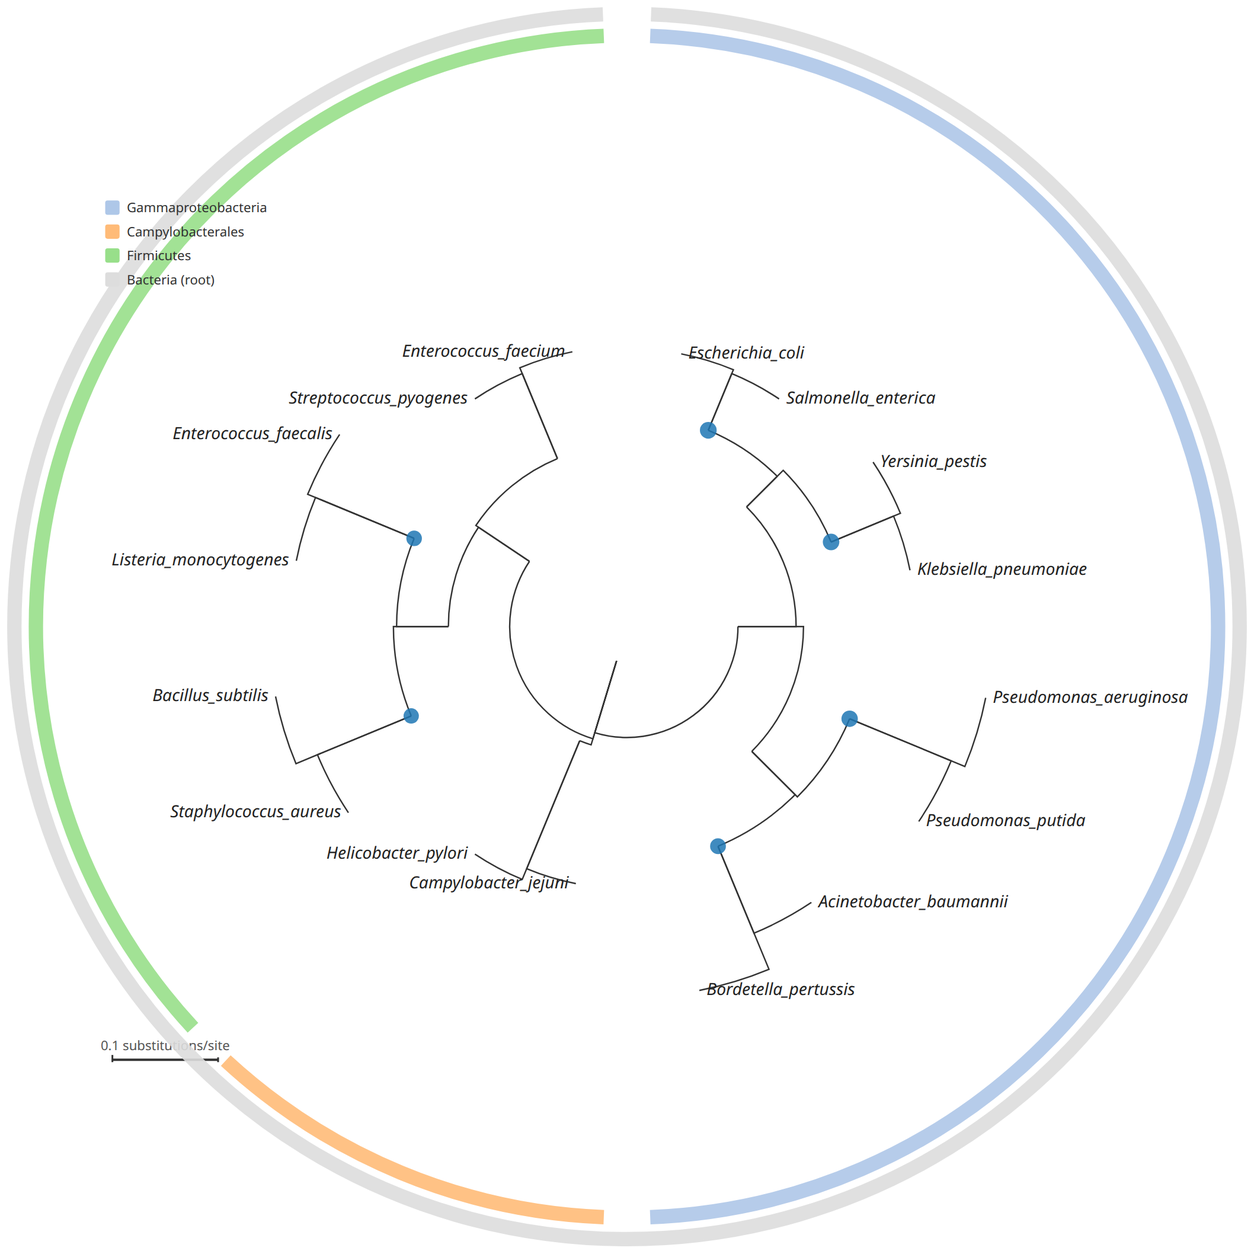
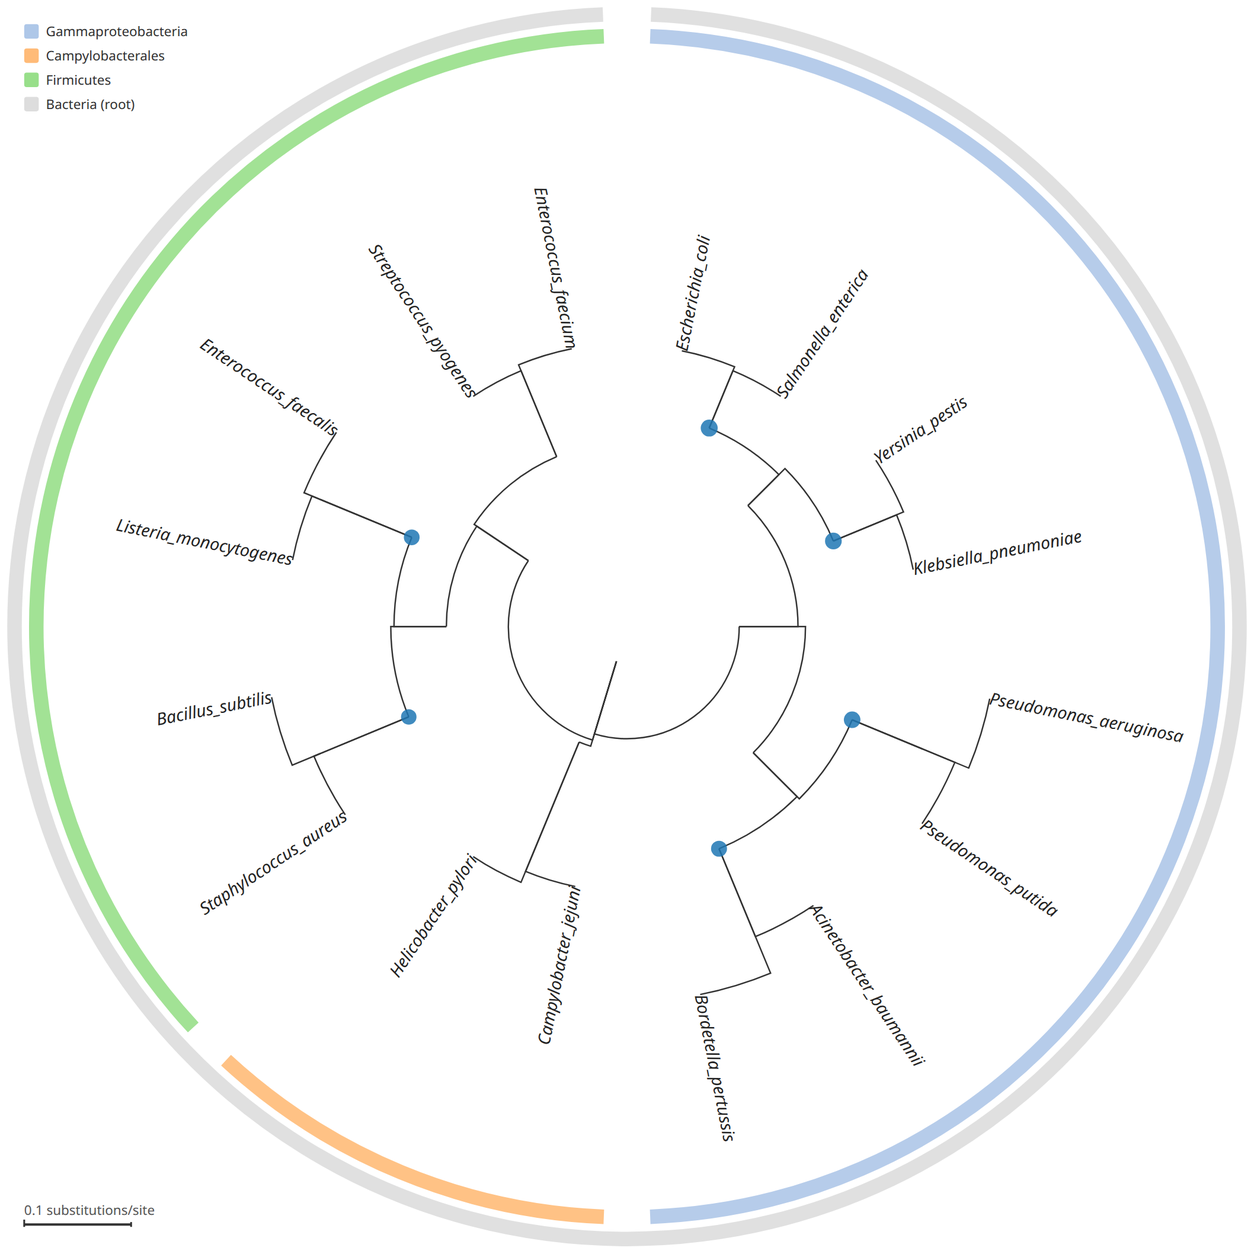
fix: PhyloTree circular/rect refinements per user review (v0.11.1)
- circular: tip labels rotated to the tip direction (left-half flipped 180 deg
  to stay readable)
- circular: legend + scale bar repositioned into the content-bbox corners
  (top-left legend, bottom-left scale bar) drawn AFTER the strips — no overlap
  with the colour-strip rings or the tree
- rect: clade strips unlabeled (the figure legend already identifies colours)
- engines/phylotree.md updated; screenshots refreshed; v0.11.0 -> v0.11.1

diff --git a/examples/phylotree-rect.html b/examples/phylotree-rect.html
@@ -320,25 +320,19 @@ document.getElementById('chart-title').textContent = SPEC.title || 'Phylogenetic
       leaves.forEach(function (n) {
         var p = pt(n);
         var right = Math.cos(p.th * Math.PI / 180) >= 0;
-        var t = el('text', { x: p.x + (right ? 6 : -6), y: p.y + 4,
-          'text-anchor': right ? 'start' : 'end', 'font-size': tl.font_size, fill: '#222' });
+        // label rotated to the tip direction; left-half labels flipped 180 deg to stay readable
+        var rot = right ? p.th : p.th - 180;
+        var t = el('text', { x: p.x, y: p.y,
+          'text-anchor': right ? 'start' : 'end', 'font-size': tl.font_size, fill: '#222',
+          transform: 'rotate(' + rot + ' ' + p.x + ' ' + p.y + ')',
+          dy: tl.font_size * 0.33 });
         t.textContent = n.name;
         if (tl.italic) t.setAttribute('font-style', 'italic');
         leafLabelEls.push({ name: n.name, el: t });
       });
     }
-    if (sb) {
-      // horizontal scale bar, bottom-left corner (same convention as rect layout)
-      var nice = Math.pow(10, Math.floor(Math.log10(totalLen / 2)));
-      var cands2 = [1, 2, 5, 10].map(function (m) { return m * nice; });
-      var barLen2 = cands2.filter(function (v) { return v <= totalLen / 2; }).pop() || cands2[0];
-      var bx2 = 30, by2 = H - 18;
-      el('line', { x1: bx2, y1: by2, x2: bx2 + barLen2 * rScale, y2: by2, stroke: '#333', 'stroke-width': 2 });
-      el('line', { x1: bx2, y1: by2 - 4, x2: bx2, y2: by2 + 2, stroke: '#333', 'stroke-width': 1.5 });
-      el('line', { x1: bx2 + barLen2 * rScale, y1: by2 - 2, x2: bx2 + barLen2 * rScale, y2: by2 + 2, stroke: '#333', 'stroke-width': 1.5 });
-      var lt = el('text', { x: bx2 + barLen2 * rScale / 2, y: by2 - 8, 'text-anchor': 'middle', 'font-size': 11, fill: '#555' });
-      lt.textContent = fmt(barLen2) + ' ' + (sb.label || 'substitutions/site');
-    }
+    // scale bar for circular layout is drawn in the tail (content-bbox bottom-left corner,
+    // outside the ring — see overlay section)
   } else {
     throw new Error('phylotree: layout.mode must be "rect" or "circular"');
   }
@@ -369,8 +363,7 @@ document.getElementById('chart-title').textContent = SPEC.title || 'Phylogenetic
         var x = maxRight + 12 + k * (stripW + stripGap);
         el('rect', { x: x, y: y0, width: stripW, height: y1 - y0,
                      fill: r.color, rx: 3, 'fill-opacity': 0.9 });
-        var lt = el('text', { x: x, y: y0 - 5 - k * 14, 'font-size': 10, fill: '#555' });
-        lt.textContent = r.label || '';
+        // no per-band label: the figure legend (top-left) identifies the colours
       });
     } else {
       // circular: concentric arcs beyond the outermost tip label
@@ -387,15 +380,34 @@ document.getElementById('chart-title').textContent = SPEC.title || 'Phylogenetic
         });
         var a0 = Math.min.apply(null, angs) - unit * 0.4, a1 = Math.max.apply(null, angs) + unit * 0.4;
         var rr = outerR + 20 + k * 18;
+        var largeArc = (a1 - a0) > 180 ? 1 : 0;   // spans > 180 deg need large-arc-flag (e.g. root-level ranges)
         var x0 = CX + rr * Math.cos(a0 * Math.PI / 180), y0 = CY + rr * Math.sin(a0 * Math.PI / 180);
         var x1 = CX + rr * Math.cos(a1 * Math.PI / 180), y1 = CY + rr * Math.sin(a1 * Math.PI / 180);
-        el('path', { d: 'M ' + x0 + ' ' + y0 + ' A ' + rr + ' ' + rr + ' 0 0 1 ' + x1 + ' ' + y1,
+        el('path', { d: 'M ' + x0 + ' ' + y0 + ' A ' + rr + ' ' + rr + ' 0 ' + largeArc + ' 1 ' + x1 + ' ' + y1,
           fill: 'none', stroke: r.color, 'stroke-width': 12, 'stroke-opacity': 0.9, 'stroke-linecap': 'butt' });
       });
     }
-    // range legend (top-left, both layouts)
+    // circular scale bar: content-bbox bottom-left corner, OUTSIDE the ring (no overlap with strips)
+    if (mode === 'circular' && sb && typeof rScale === 'number') {
+      var nice = Math.pow(10, Math.floor(Math.log10(totalLen / 2)));
+      var cands2 = [1, 2, 5, 10].map(function (m) { return m * nice; });
+      var barLen2 = cands2.filter(function (v) { return v <= totalLen / 2; }).pop() || cands2[0];
+      var cb = svg.getBBox();
+      var bx2 = cb.x + 8, by2 = cb.y + cb.height - 12;
+      el('line', { x1: bx2, y1: by2, x2: bx2 + barLen2 * rScale, y2: by2, stroke: '#333', 'stroke-width': 2 });
+      el('line', { x1: bx2, y1: by2 - 4, x2: bx2, y2: by2 + 2, stroke: '#333', 'stroke-width': 1.5 });
+      el('line', { x1: bx2 + barLen2 * rScale, y1: by2 - 2, x2: bx2 + barLen2 * rScale, y2: by2 + 2, stroke: '#333', 'stroke-width': 1.5 });
+      var lt = el('text', { x: bx2, y: by2 - 8, 'text-anchor': 'start', 'font-size': 11, fill: '#555' });
+      lt.textContent = fmt(barLen2) + ' ' + (sb.label || 'substitutions/site');
+    }
+    // range legend: circular places it in the content-bbox top-left corner (outside the ring);
+    // rect keeps the fixed top-left position
     if (SPEC.legend === undefined || SPEC.legend) {
-      var lx = 24, ly = 24;
+      var lx, ly;
+      if (mode === 'circular') {
+        var cb = svg.getBBox();
+        lx = cb.x + 8; ly = cb.y + 8;
+      } else { lx = 24; ly = 24; }
       ranges.forEach(function (r, k) {
         el('rect', { x: lx, y: ly + k * 20, width: 12, height: 12, fill: r.color, rx: 2 });
         var t = el('text', { x: lx + 18, y: ly + k * 20 + 10, 'font-size': 11, fill: '#333' });

diff --git a/examples/phylotree-circular.html b/examples/phylotree-circular.html
@@ -319,25 +319,19 @@ document.getElementById('chart-title').textContent = SPEC.title || 'Phylogenetic
       leaves.forEach(function (n) {
         var p = pt(n);
         var right = Math.cos(p.th * Math.PI / 180) >= 0;
-        var t = el('text', { x: p.x + (right ? 6 : -6), y: p.y + 4,
-          'text-anchor': right ? 'start' : 'end', 'font-size': tl.font_size, fill: '#222' });
+        // label rotated to the tip direction; left-half labels flipped 180 deg to stay readable
+        var rot = right ? p.th : p.th - 180;
+        var t = el('text', { x: p.x, y: p.y,
+          'text-anchor': right ? 'start' : 'end', 'font-size': tl.font_size, fill: '#222',
+          transform: 'rotate(' + rot + ' ' + p.x + ' ' + p.y + ')',
+          dy: tl.font_size * 0.33 });
         t.textContent = n.name;
         if (tl.italic) t.setAttribute('font-style', 'italic');
         leafLabelEls.push({ name: n.name, el: t });
       });
     }
-    if (sb) {
-      // horizontal scale bar, bottom-left corner (same convention as rect layout)
-      var nice = Math.pow(10, Math.floor(Math.log10(totalLen / 2)));
-      var cands2 = [1, 2, 5, 10].map(function (m) { return m * nice; });
-      var barLen2 = cands2.filter(function (v) { return v <= totalLen / 2; }).pop() || cands2[0];
-      var bx2 = 30, by2 = H - 18;
-      el('line', { x1: bx2, y1: by2, x2: bx2 + barLen2 * rScale, y2: by2, stroke: '#333', 'stroke-width': 2 });
-      el('line', { x1: bx2, y1: by2 - 4, x2: bx2, y2: by2 + 2, stroke: '#333', 'stroke-width': 1.5 });
-      el('line', { x1: bx2 + barLen2 * rScale, y1: by2 - 2, x2: bx2 + barLen2 * rScale, y2: by2 + 2, stroke: '#333', 'stroke-width': 1.5 });
-      var lt = el('text', { x: bx2 + barLen2 * rScale / 2, y: by2 - 8, 'text-anchor': 'middle', 'font-size': 11, fill: '#555' });
-      lt.textContent = fmt(barLen2) + ' ' + (sb.label || 'substitutions/site');
-    }
+    // scale bar for circular layout is drawn in the tail (content-bbox bottom-left corner,
+    // outside the ring — see overlay section)
   } else {
     throw new Error('phylotree: layout.mode must be "rect" or "circular"');
   }
@@ -368,8 +362,7 @@ document.getElementById('chart-title').textContent = SPEC.title || 'Phylogenetic
         var x = maxRight + 12 + k * (stripW + stripGap);
         el('rect', { x: x, y: y0, width: stripW, height: y1 - y0,
                      fill: r.color, rx: 3, 'fill-opacity': 0.9 });
-        var lt = el('text', { x: x, y: y0 - 5 - k * 14, 'font-size': 10, fill: '#555' });
-        lt.textContent = r.label || '';
+        // no per-band label: the figure legend (top-left) identifies the colours
       });
     } else {
       // circular: concentric arcs beyond the outermost tip label
@@ -393,9 +386,27 @@ document.getElementById('chart-title').textContent = SPEC.title || 'Phylogenetic
           fill: 'none', stroke: r.color, 'stroke-width': 12, 'stroke-opacity': 0.9, 'stroke-linecap': 'butt' });
       });
     }
-    // range legend (top-left, both layouts)
+    // circular scale bar: content-bbox bottom-left corner, OUTSIDE the ring (no overlap with strips)
+    if (mode === 'circular' && sb && typeof rScale === 'number') {
+      var nice = Math.pow(10, Math.floor(Math.log10(totalLen / 2)));
+      var cands2 = [1, 2, 5, 10].map(function (m) { return m * nice; });
+      var barLen2 = cands2.filter(function (v) { return v <= totalLen / 2; }).pop() || cands2[0];
+      var cb = svg.getBBox();
+      var bx2 = cb.x + 8, by2 = cb.y + cb.height - 12;
+      el('line', { x1: bx2, y1: by2, x2: bx2 + barLen2 * rScale, y2: by2, stroke: '#333', 'stroke-width': 2 });
+      el('line', { x1: bx2, y1: by2 - 4, x2: bx2, y2: by2 + 2, stroke: '#333', 'stroke-width': 1.5 });
+      el('line', { x1: bx2 + barLen2 * rScale, y1: by2 - 2, x2: bx2 + barLen2 * rScale, y2: by2 + 2, stroke: '#333', 'stroke-width': 1.5 });
+      var lt = el('text', { x: bx2, y: by2 - 8, 'text-anchor': 'start', 'font-size': 11, fill: '#555' });
+      lt.textContent = fmt(barLen2) + ' ' + (sb.label || 'substitutions/site');
+    }
+    // range legend: circular places it in the content-bbox top-left corner (outside the ring);
+    // rect keeps the fixed top-left position
     if (SPEC.legend === undefined || SPEC.legend) {
-      var lx = 24, ly = 24;
+      var lx, ly;
+      if (mode === 'circular') {
+        var cb = svg.getBBox();
+        lx = cb.x + 8; ly = cb.y + 8;
+      } else { lx = 24; ly = 24; }
       ranges.forEach(function (r, k) {
         el('rect', { x: lx, y: ly + k * 20, width: 12, height: 12, fill: r.color, rx: 2 });
         var t = el('text', { x: lx + 18, y: ly + k * 20 + 10, 'font-size': 11, fill: '#333' });

diff --git a/templates/phylotree.html b/templates/phylotree.html
@@ -234,25 +234,19 @@ document.getElementById('chart-title').textContent = SPEC.title || 'Phylogenetic
       leaves.forEach(function (n) {
         var p = pt(n);
         var right = Math.cos(p.th * Math.PI / 180) >= 0;
-        var t = el('text', { x: p.x + (right ? 6 : -6), y: p.y + 4,
-          'text-anchor': right ? 'start' : 'end', 'font-size': tl.font_size, fill: '#222' });
+        // label rotated to the tip direction; left-half labels flipped 180 deg to stay readable
+        var rot = right ? p.th : p.th - 180;
+        var t = el('text', { x: p.x, y: p.y,
+          'text-anchor': right ? 'start' : 'end', 'font-size': tl.font_size, fill: '#222',
+          transform: 'rotate(' + rot + ' ' + p.x + ' ' + p.y + ')',
+          dy: tl.font_size * 0.33 });
         t.textContent = n.name;
         if (tl.italic) t.setAttribute('font-style', 'italic');
         leafLabelEls.push({ name: n.name, el: t });
       });
     }
-    if (sb) {
-      // horizontal scale bar, bottom-left corner (same convention as rect layout)
-      var nice = Math.pow(10, Math.floor(Math.log10(totalLen / 2)));
-      var cands2 = [1, 2, 5, 10].map(function (m) { return m * nice; });
-      var barLen2 = cands2.filter(function (v) { return v <= totalLen / 2; }).pop() || cands2[0];
-      var bx2 = 30, by2 = H - 18;
-      el('line', { x1: bx2, y1: by2, x2: bx2 + barLen2 * rScale, y2: by2, stroke: '#333', 'stroke-width': 2 });
-      el('line', { x1: bx2, y1: by2 - 4, x2: bx2, y2: by2 + 2, stroke: '#333', 'stroke-width': 1.5 });
-      el('line', { x1: bx2 + barLen2 * rScale, y1: by2 - 2, x2: bx2 + barLen2 * rScale, y2: by2 + 2, stroke: '#333', 'stroke-width': 1.5 });
-      var lt = el('text', { x: bx2 + barLen2 * rScale / 2, y: by2 - 8, 'text-anchor': 'middle', 'font-size': 11, fill: '#555' });
-      lt.textContent = fmt(barLen2) + ' ' + (sb.label || 'substitutions/site');
-    }
+    // scale bar for circular layout is drawn in the tail (content-bbox bottom-left corner,
+    // outside the ring — see overlay section)
   } else {
     throw new Error('phylotree: layout.mode must be "rect" or "circular"');
   }
@@ -283,8 +277,7 @@ document.getElementById('chart-title').textContent = SPEC.title || 'Phylogenetic
         var x = maxRight + 12 + k * (stripW + stripGap);
         el('rect', { x: x, y: y0, width: stripW, height: y1 - y0,
                      fill: r.color, rx: 3, 'fill-opacity': 0.9 });
-        var lt = el('text', { x: x, y: y0 - 5 - k * 14, 'font-size': 10, fill: '#555' });
-        lt.textContent = r.label || '';
+        // no per-band label: the figure legend (top-left) identifies the colours
       });
     } else {
       // circular: concentric arcs beyond the outermost tip label
@@ -308,9 +301,27 @@ document.getElementById('chart-title').textContent = SPEC.title || 'Phylogenetic
           fill: 'none', stroke: r.color, 'stroke-width': 12, 'stroke-opacity': 0.9, 'stroke-linecap': 'butt' });
       });
     }
-    // range legend (top-left, both layouts)
+    // circular scale bar: content-bbox bottom-left corner, OUTSIDE the ring (no overlap with strips)
+    if (mode === 'circular' && sb && typeof rScale === 'number') {
+      var nice = Math.pow(10, Math.floor(Math.log10(totalLen / 2)));
+      var cands2 = [1, 2, 5, 10].map(function (m) { return m * nice; });
+      var barLen2 = cands2.filter(function (v) { return v <= totalLen / 2; }).pop() || cands2[0];
+      var cb = svg.getBBox();
+      var bx2 = cb.x + 8, by2 = cb.y + cb.height - 12;
+      el('line', { x1: bx2, y1: by2, x2: bx2 + barLen2 * rScale, y2: by2, stroke: '#333', 'stroke-width': 2 });
+      el('line', { x1: bx2, y1: by2 - 4, x2: bx2, y2: by2 + 2, stroke: '#333', 'stroke-width': 1.5 });
+      el('line', { x1: bx2 + barLen2 * rScale, y1: by2 - 2, x2: bx2 + barLen2 * rScale, y2: by2 + 2, stroke: '#333', 'stroke-width': 1.5 });
+      var lt = el('text', { x: bx2, y: by2 - 8, 'text-anchor': 'start', 'font-size': 11, fill: '#555' });
+      lt.textContent = fmt(barLen2) + ' ' + (sb.label || 'substitutions/site');
+    }
+    // range legend: circular places it in the content-bbox top-left corner (outside the ring);
+    // rect keeps the fixed top-left position
     if (SPEC.legend === undefined || SPEC.legend) {
-      var lx = 24, ly = 24;
+      var lx, ly;
+      if (mode === 'circular') {
+        var cb = svg.getBBox();
+        lx = cb.x + 8; ly = cb.y + 8;
+      } else { lx = 24; ly = 24; }
       ranges.forEach(function (r, k) {
         el('rect', { x: lx, y: ly + k * 20, width: 12, height: 12, fill: r.color, rx: 2 });
         var t = el('text', { x: lx + 18, y: ly + k * 20 + 10, 'font-size': 11, fill: '#333' });

diff --git a/README.md b/README.md
@@ -1,6 +1,6 @@
 # chartz
 
-[![Version](https://img.shields.io/badge/version-0.11.0-blue)](#-installation)
+[![Version](https://img.shields.io/badge/version-0.11.1-blue)](#-installation)
 [![Type](https://img.shields.io/badge/type-agent%20skill-blueviolet)](#-installation)
 [![README standard](https://img.shields.io/badge/README%20per-bioinfo--skill--creator-orange)](https://github.com/cheahhl814/bioinfo-skill-creator)
 
@@ -9,7 +9,7 @@ Render charts and graphs as self-contained HTML files from four CDN-pinned engin
 **Repository**: https://github.com/cheahhl814/chartz
 
 > [!NOTE]
-> Current version: **v0.11.0** (updated 2026-09-21). v0.11.0 refines PhyloTree: bootstrap values as **text or balloon** (`bootstrap.mode`), clade strips on the **right of the tip labels** (rect) and **concentric multi-layer arcs** (circular, never over the tree), horizontal **bottom-left scale bar** in both layouts, larger tip labels (14 pt default). v0.10.0 adds v0.10.0 adds the **PhyloTree engine** (§5i, engine 2) — iTOL-class publication-ready phylogenetic trees from a Newick string: rectangular/circular phylograms & cladograms, bootstrap circles, scale bar, clade color ranges, italic tip labels, true-vector export. v0.9.0 adds v0.9.0 adds the **HeatTree engine** (§5h, engine 1) — metacoder-style radial taxonomy heat trees with value-mapped node size/color and edge width/color, grey-for-NA, gradient legend, zero dependencies. v0.8.1 fixes v0.8.1 fixes the ECharts sankey/title overlap (S11 — sankey ignores `grid`; set `series.top`). v0.8.0 adds v0.2.0 GenomeTracks (§5b); v0.3.0 ClusterHeat (§5c); v0.4.0 OncoPrint (§5d); v0.5.0 SeqLogo (§5e); v0.6.0 UpSet (§5f); v0.7.0 adds Circos (§5g); v0.8.0 adds **print/vector export** — Download SVG (journal-submission vector, mm-sized) on all template-native engines, deterministic `export: {width_mm, dpi}` PNG raster, and Plotly vector export via `toImageButtonOptions` (SKILL.md §6b).
+> Current version: **v0.11.1** (updated 2026-09-21). v0.11.1 refines PhyloTree further: circular tip labels **rotated to the tip direction**; circular legend + scale bar moved to the content corners (outside the ring — no overlap with strips); rect strips are unlabeled (figure legend covers them). v0.11.0 refines v0.11.0 refines PhyloTree: bootstrap values as **text or balloon** (`bootstrap.mode`), clade strips on the **right of the tip labels** (rect) and **concentric multi-layer arcs** (circular, never over the tree), horizontal **bottom-left scale bar** in both layouts, larger tip labels (14 pt default). v0.10.0 adds v0.10.0 adds the **PhyloTree engine** (§5i, engine 2) — iTOL-class publication-ready phylogenetic trees from a Newick string: rectangular/circular phylograms & cladograms, bootstrap circles, scale bar, clade color ranges, italic tip labels, true-vector export. v0.9.0 adds v0.9.0 adds the **HeatTree engine** (§5h, engine 1) — metacoder-style radial taxonomy heat trees with value-mapped node size/color and edge width/color, grey-for-NA, gradient legend, zero dependencies. v0.8.1 fixes v0.8.1 fixes the ECharts sankey/title overlap (S11 — sankey ignores `grid`; set `series.top`). v0.8.0 adds v0.2.0 GenomeTracks (§5b); v0.3.0 ClusterHeat (§5c); v0.4.0 OncoPrint (§5d); v0.5.0 SeqLogo (§5e); v0.6.0 UpSet (§5f); v0.7.0 adds Circos (§5g); v0.8.0 adds **print/vector export** — Download SVG (journal-submission vector, mm-sized) on all template-native engines, deterministic `export: {width_mm, dpi}` PNG raster, and Plotly vector export via `toImageButtonOptions` (SKILL.md §6b).
 
 ## Contents
 

diff --git a/engines/phylotree.md b/engines/phylotree.md
@@ -35,6 +35,7 @@ Loaded from SKILL.md §1 routing when this engine is selected.
   ],                              // layer: strip column index (rect) / concentric ring index (circular);
                                   // default 0. Use successive layers for higher taxonomic levels.
   tip_labels: { show: true, font_size: 14, italic: true, align: false },
+                                // circular: labels are ROTATED to the tip direction (readable on both halves)
   legend: true,                   // legend for ranges (default on when ranges exist)
   export: { width_mm: 183, dpi: 300 }   // see SKILL.md §6b
 }
@@ -48,8 +49,10 @@ Loaded from SKILL.md §1 routing when this engine is selected.
 - **Bootstrap circles appear only for internal nodes with a numeric label** — if your Newick carries support as e.g. `)100:0.041` it works; if support lives in a separate table, re-emit the Newick with labels inlined. Strings like `"high"` become clade names, not supports.
 - **`ranges[].tips` are tip-name exact matches** (underscores included). A range with an unknown tip throws. Ranges render as a vertical band lane (rect) or an outer arc (circular) spanning the member leaves' extent — the members must form a monophyletic clade or the band will visually mislead; check monophyly upstream and say so in the delivery message if uncertain.
 - **Cladogram vs phylogram**: with `style: "cladogram"` branch lengths are stripped before parsing (equidistant depths) — never present a cladogram where the substitution distances are the message.
-- **Range strips**: rect draws one strip column per `layer` on the RIGHT of the tip labels (staggered band labels); circular draws concentric arcs beyond the outermost tip label (never over the tree). Ranges spanning > 180° (e.g. a root-level layer) get the SVG large-arc flag automatically. Ranges are rect-only for labels-above-band; circular bands rely on the legend.
+- **Range strips**: rect draws one UNLABELED strip column per `layer` on the RIGHT of the tip labels (the figure legend identifies colours); circular draws concentric arcs beyond the outermost tip label (never over the tree). Ranges spanning > 180° (e.g. a root-level layer) get the SVG large-arc flag automatically.
 - **Bootstrap text vs balloon**: `mode: "text"` prints the support value beside the internal node; `mode: "balloon"` draws a support-scaled circle. Both honour `threshold`. TBE trees on a 0-1 scale are rescaled ×100 automatically.
+- **Circular legend/scale-bar placement**: both are drawn into the content-bbox corners (top-left legend, bottom-left scale bar) AFTER the strips, so they always sit outside the ring — never overlapping the colour strips or the tree.
+- **Circular tip-label rotation**: labels rotate with the tip direction; left-half labels flip 180° to stay readable. Horizontal circular labels are not available in this version.
 - **No midpoint/outgroup rerooting in v1** — root the tree upstream (gotree/IQ-TREE/nj) and emit the rooted Newick; the template draws the root where the Newick roots it.
 - **Label cap**: none by default (tip labels auto-fit via the viewBox), but >200 tips make labels unreadable at journal widths — collapse clades upstream (gotree collapse) and represent them with a range.
 - **Dataset annotation strips** (iTOL heatmaps/bars aligned to tips) are NOT in v1 — for those, use `phylogenetics-agent → visualize/phylo-itol`, or compose the value table as a separate ClusterHeat figure with matching tip order. Clade colour ranges (solid strips/arcs) ARE supported, multi-layer.

diff --git a/SKILL.md b/SKILL.md
@@ -1,7 +1,7 @@
 ---
 name: chartz
 description: 'Render charts and graphs as self-contained HTML files from four pinned CDN engines, chosen by chart type. Use when the user asks for a chart, plot, dashboard, heatmap, network/graph diagram, or any data visualization as a file they can open in a browser — "make a bar chart", "plot this data", "heatmap of these values", "draw a network graph", "dashboard of these metrics". Engine router: Chart.js (simple statistical), Plotly.js (scientific/statistical), ECharts (rich/dashboards), Cytoscape.js (nodes + edges). Emits one single-file HTML per chart with pinned CDN versions; no build step, no server. Does NOT do text-to-flowchart/sequence diagrams (use Mermaid/lumen-generate_visual for that) and does NOT analyze data — it renders data you already have.'
-version: 0.11.0
+version: 0.11.1
 updated: "2026-09-21"
 triggers:
   - "make a chart"
@@ -20,7 +20,7 @@ requires:
 
 # chartz — chart & graph rendering skill
 
-> **v0.11.0.** Renders one self-contained HTML file per chart from four CDN-pinned engines (Chart.js, Plotly.js, ECharts, Cytoscape.js) plus eight template-native SVG engines (PhyloTree, GenomeTracks, ClusterHeat, OncoPrint, SeqLogo, UpSet, Circos, HeatTree — §5b–§5i), each pinned to an exact version. This SKILL.md is a **router + spec contract**: pick the engine from §1, emit the engine's JSON spec per that engine's file, fill a template slot, write the HTML, deliver the path. No build step.
+> **v0.11.1.** Renders one self-contained HTML file per chart from four CDN-pinned engines (Chart.js, Plotly.js, ECharts, Cytoscape.js) plus eight template-native SVG engines (PhyloTree, GenomeTracks, ClusterHeat, OncoPrint, SeqLogo, UpSet, Circos, HeatTree — §5b–§5i), each pinned to an exact version. This SKILL.md is a **router + spec contract**: pick the engine from §1, emit the engine's JSON spec per that engine's file, fill a template slot, write the HTML, deliver the path. No build step.
 
 ## 0. Workflow (always all five steps)
 
